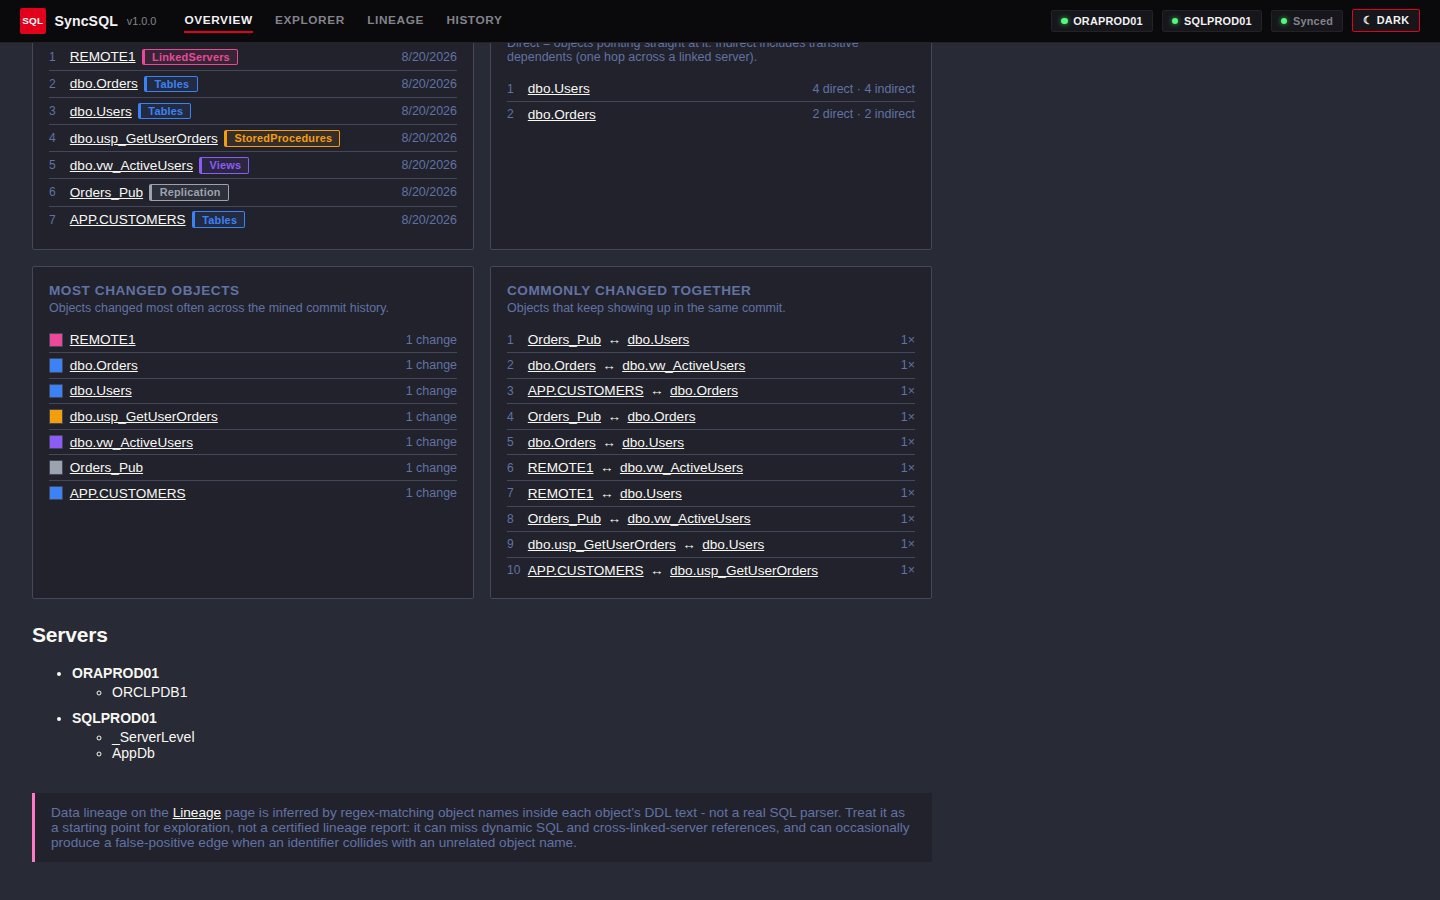
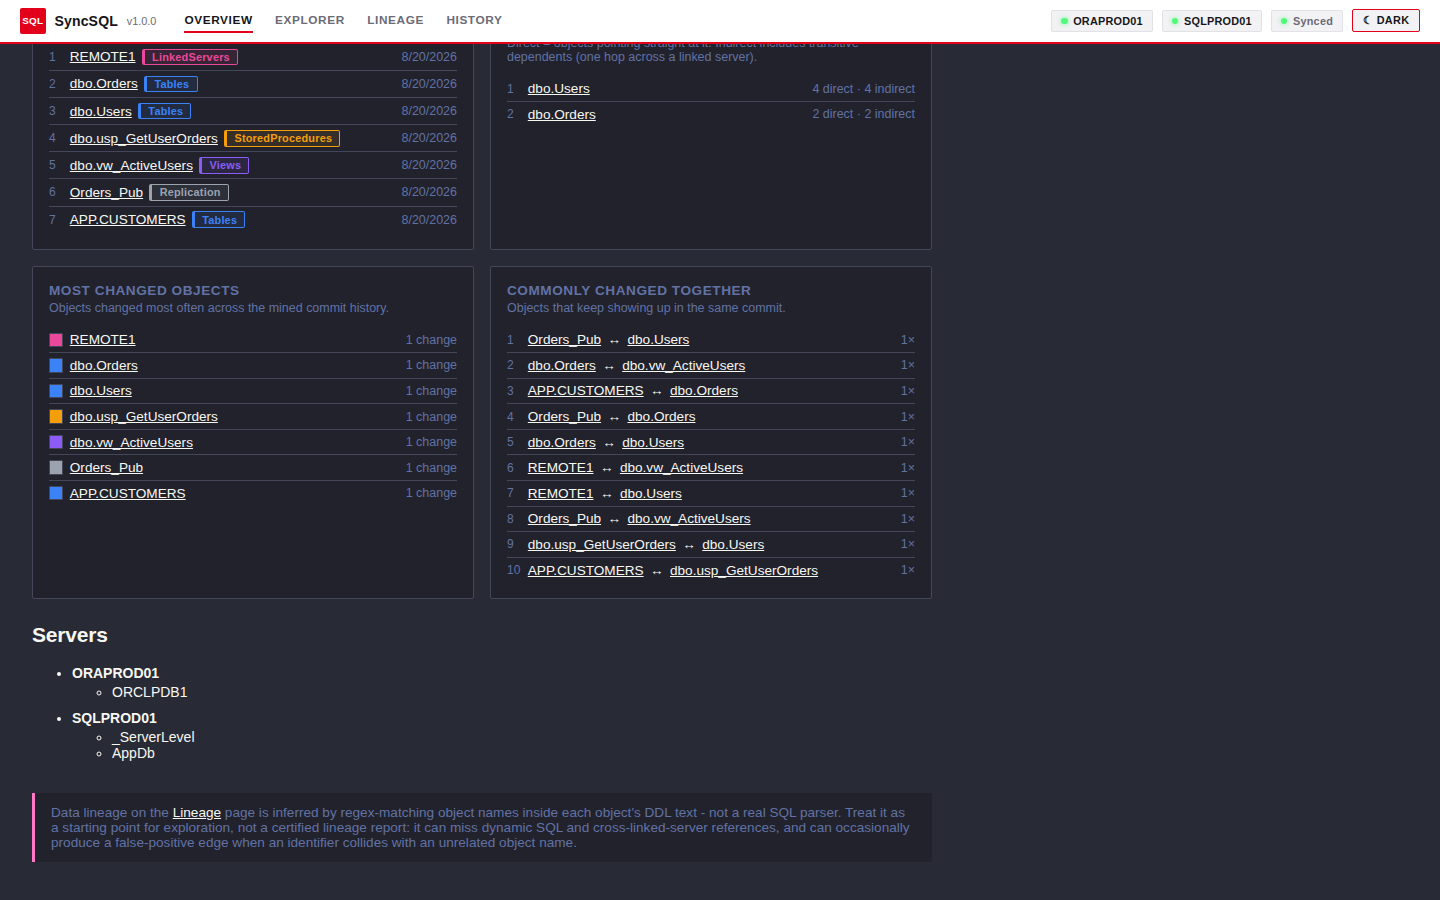
Switch topbar chrome to a light color scheme
The top nav bar (.topbar) was a fixed near-black shell independent of
the light/dark toggle; switches its palette to a light one (white
background, light-gray surfaces/borders, dark text) while keeping the
same fixed-independent-of-theme treatment and the red brand
accent/underline. Refreshes the README screenshots to match.

Changed region(s): [[0.0, 0.0, 1.0, 0.0622]]

diff --git a/site/src/styles.css b/site/src/styles.css
@@ -10,9 +10,8 @@
   deliberate exception - always rendered in the Midnight palette regardless
   of site theme, since that's where the syntax highlighting theme
   (components/midnight-hljs.css) lives. The top "chrome" bar (.topbar) is a
-  second such exception - a fixed near-black console shell that houses the
-  brand mark, nav and connection status, independent of the light/dark
-  toggle below it (like a terminal/ops-console title bar).
+  second such exception - a fixed light shell that houses the brand mark,
+  nav and connection status, independent of the light/dark toggle below it.
 */
 :root {
   --bg: #f5f5f7;
@@ -26,11 +25,11 @@
   --ok: #10b981;
   --warn: #f59e0b;
 
-  --chrome-bg: #0a0a0c;
-  --chrome-surface: #17171b;
-  --chrome-border: #232327;
-  --chrome-text: #f2f2f4;
-  --chrome-text-muted: #83838d;
+  --chrome-bg: #ffffff;
+  --chrome-surface: #f2f2f4;
+  --chrome-border: #e2e2e6;
+  --chrome-text: #16161a;
+  --chrome-text-muted: #6b6b76;
   --chrome-accent: #e2001a;
 
   color-scheme: light;
@@ -89,7 +88,7 @@ a {
   align-items: center;
   gap: 1.75rem;
   padding: 0.5rem 1.25rem;
-  border-bottom: 1px solid var(--chrome-border);
+  border-bottom: 2px solid var(--chrome-accent);
   background: var(--chrome-bg);
   color: var(--chrome-text);
   flex-shrink: 0;
